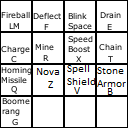
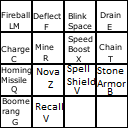
Recall done

Changed region(s): [[0.25, 0.7812, 0.5, 0.9688]]

diff --git a/MagicGladiators/MagicGladiators/Components/Composites/Abilities/Mobility/Recall.cs b/MagicGladiators/MagicGladiators/Components/Composites/Abilities/Mobility/Recall.cs
@@ -9,25 +9,19 @@ using Microsoft.Xna.Framework;
 
 namespace MagicGladiators
 {
-    class StoneArmour : DefensiveAbility, IUpdateable, ILoadable
+    class Recall: MobilityAbility, IUpdateable, ILoadable
     {
-
-       
         private float activated;
         private float activatedTimer = 4f;
-        private float slowSpeed = 0.5f;
-        private float resist = 0.5f;
         private bool activatedAbility;
         private bool cooldownbool = false;
-     
+        private float cooldownTimer;
+        private Vector2 startPos;
 
-
-        public StoneArmour(GameObject go) : base(go)
+        public Recall(GameObject go) : base(go)
         {
             canShoot = true;
-            cooldown = 5;
-            
-            
+            cooldown = 6;
         }
 
         public override void LoadContent(ContentManager content)
@@ -38,36 +32,36 @@ namespace MagicGladiators
         public override void Update()
         {
             KeyboardState keyState = Keyboard.GetState();
-           
 
-            if (keyState.IsKeyDown(Keys.B) && canShoot)
+
+            if (keyState.IsKeyDown(Keys.V) && canShoot)
             {
                 activatedAbility = true;
                 canShoot = false;
-                gameObject.Speed -= slowSpeed;
-                gameObject.KnockBackResistance -= resist;
-                (gameObject.GetComponent("SpriteRenderer") as SpriteRenderer).Color = Color.DarkSlateGray;
-               
+                (gameObject.GetComponent("SpriteRenderer") as SpriteRenderer).Color = Color.DarkBlue;
+                startPos = gameObject.transform.position;
             }
-            if(activatedAbility)
+
+            if (activatedAbility)
             {
                 activated += GameWorld.Instance.deltaTime;
             }
 
-            if(activated >= activatedTimer)
-            {
-                gameObject.Speed +=  slowSpeed;
-                gameObject.KnockBackResistance += resist;
+            if (activated >= activatedTimer)
+            {          
                 cooldownbool = true;
                 activatedAbility = false;
                 activated = 0;
                 (gameObject.GetComponent("SpriteRenderer") as SpriteRenderer).Color = Color.White;
+                gameObject.transform.position = startPos;
             }
+
             if (cooldownbool)
             {
                 cooldownTimer += GameWorld.Instance.deltaTime;
             }
-            if(cooldownTimer >= cooldown)
+
+            if (cooldownTimer >= cooldown)
             {
                 canShoot = true;
                 cooldownTimer = 0;

diff --git a/MagicGladiators/MagicGladiators/GameWorld.cs b/MagicGladiators/MagicGladiators/GameWorld.cs
@@ -66,7 +66,7 @@ namespace MagicGladiators
         private List<Collider> testList = new List<Collider>();
         private List<string> offensiveAbilities = new List<string>() { "HomingMissile", "Fireball", "Ricochet" };
         private List<string> defensiveAbilities = new List<string>() { "Deflect", "Invisibility", "Stone Armor" };
-        private List<string> movementAbilities = new List<string>() { "Charge", "Blink", "Leap" };
+        private List<string> movementAbilities = new List<string>() { "Charge", "Blink", "Leap", "Recall" };
         //v.0.2
 
         private GameObject map;
@@ -258,6 +258,9 @@ namespace MagicGladiators
             abilityList.Add(director.ConstructIcon(new Vector2(buySpellX, buySpellY), "StoneArmour", 100, "Grants reduced knockback \n effect for a period of time, \n while reducing movement speed."));
             buySpellPosition();
             abilityList.Add(director.ConstructIcon(new Vector2(buySpellX, buySpellY), "Boomerang", 100, "Fires a projectile that return to \n your position"));
+            buySpellPosition();
+            abilityList.Add(director.ConstructIcon(new Vector2(buySpellX, buySpellY), "Recall", 100, "teleport you to the position, you \n had when casting the spell"));
+
         }
 
         public void CreateVendorItems()

diff --git a/MagicGladiators/MagicGladiators/AbilityIcon.cs b/MagicGladiators/MagicGladiators/AbilityIcon.cs
@@ -44,6 +44,8 @@ namespace MagicGladiators
             animator.CreateAnimation("Spellshield", new Animation(1, 64, 2, 32, 32, 10, Vector2.Zero, sprite));
             animator.CreateAnimation("StoneArmour", new Animation(1, 64, 3, 32, 32, 10, Vector2.Zero, sprite));
             animator.CreateAnimation("Boomerang", new Animation(1, 96, 0, 32, 32, 10, Vector2.Zero, sprite));
+            animator.CreateAnimation("Recall", new Animation(1, 96, 1, 32, 32, 10, Vector2.Zero, sprite));
+
 
 
             animator.PlayAnimation(Name);

diff --git a/MagicGladiators/MagicGladiators/Builder/PlayerBuilder.cs b/MagicGladiators/MagicGladiators/Builder/PlayerBuilder.cs
@@ -54,6 +54,10 @@ namespace MagicGladiators
             //gameObject.AddComponent(new Boomerang(gameObject));
             gameObject.AddComponent(new Fireball(gameObject));
 
+            //gameObject.AddComponent(new Recall(gameObject));
+
+
+
 
             MouseState mouse = Mouse.GetState();
             gameObject.transform.position = position;

diff --git a/MagicGladiators/MagicGladiators/CreateAbility.cs b/MagicGladiators/MagicGladiators/CreateAbility.cs
@@ -67,6 +67,10 @@ namespace MagicGladiators
             {
                 component = new Boomerang(gameObject);
             }
+            if (name == "Recall")
+            {
+                component = new Recall(gameObject);
+            }
             return component;
         }
 
